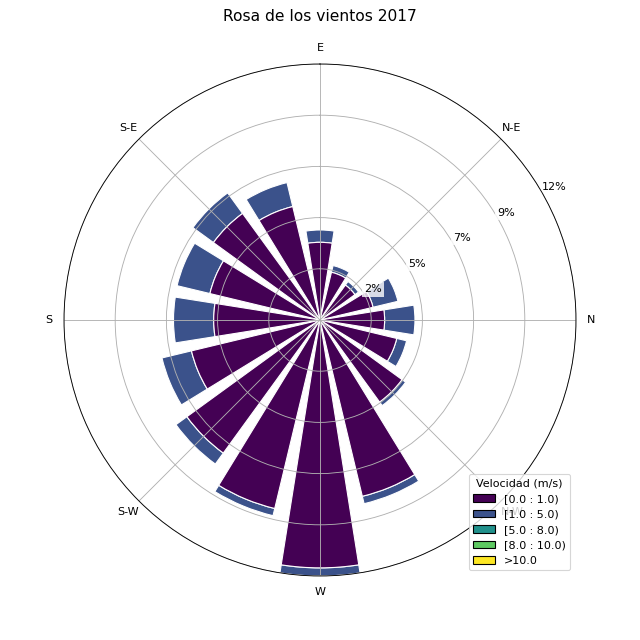
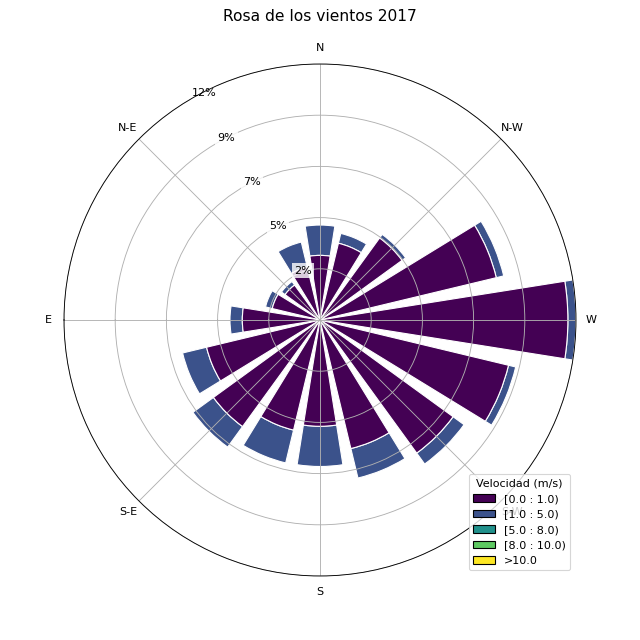
[UPDATE]

diff --git a/main.py b/main.py
@@ -112,7 +112,7 @@ def validar_datos(parametro, variable):
 #¿ Llamada a la función para validar y limpiar los datos para el parámetro deseado
 validar_datos(parametro='calidad_pm25', variable='pm25') #? Para calidad pm2.5
 validar_datos(parametro='calidad_pliquida_ssr', variable='pliquida_ssr') #? Para calidad de precipitación líquida
-validar_datos(parametro='calidad_taire10_ssr',variable='taire10_ssr') #? Para calidad de temperatura del aire a 10m
+validar_datos(parametro='calidad_taire10_ssr',variable='taire10_ssr') #? Para calidad de temperatura del aire a 10m´
 validar_datos(parametro="calidad_dviento_ssr",variable="dviento_ssr") #? Para calidad de dirección de viento
 validar_datos(parametro="calidad_vviento_ssr", variable="vviento_ssr") #? Para calidad de velocidad viento
 
@@ -365,7 +365,7 @@ def graficar_rosa_vientos_anual():
         text.set_bbox(dict(facecolor='white', edgecolor='none', alpha=0.8, pad=2))
 
     # Ajustes finales
-    ax.set_theta_zero_location('N')   # 0° apunta al norte
+    ax.set_theta_zero_location('W')   # Norte hacia arriba
     ax.set_theta_direction(-1)        # sentido horario
     ax.set_title('Rosa de los vientos 2017', fontsize=14, pad=20)
     ax.legend(title='Velocidad (m/s)', loc='lower right', fontsize=10, frameon=True)
